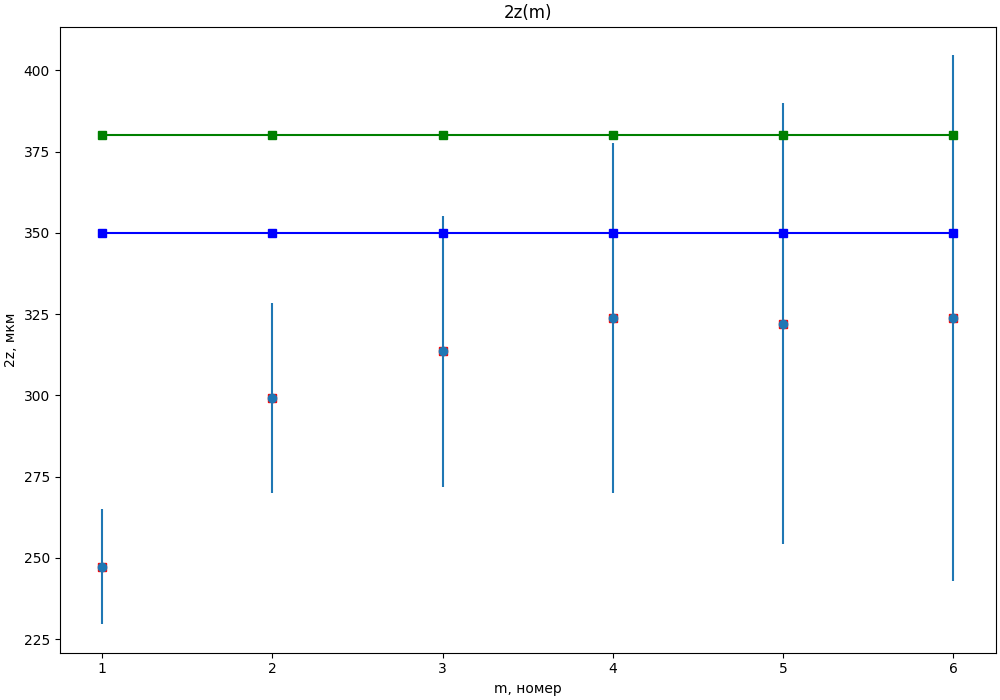
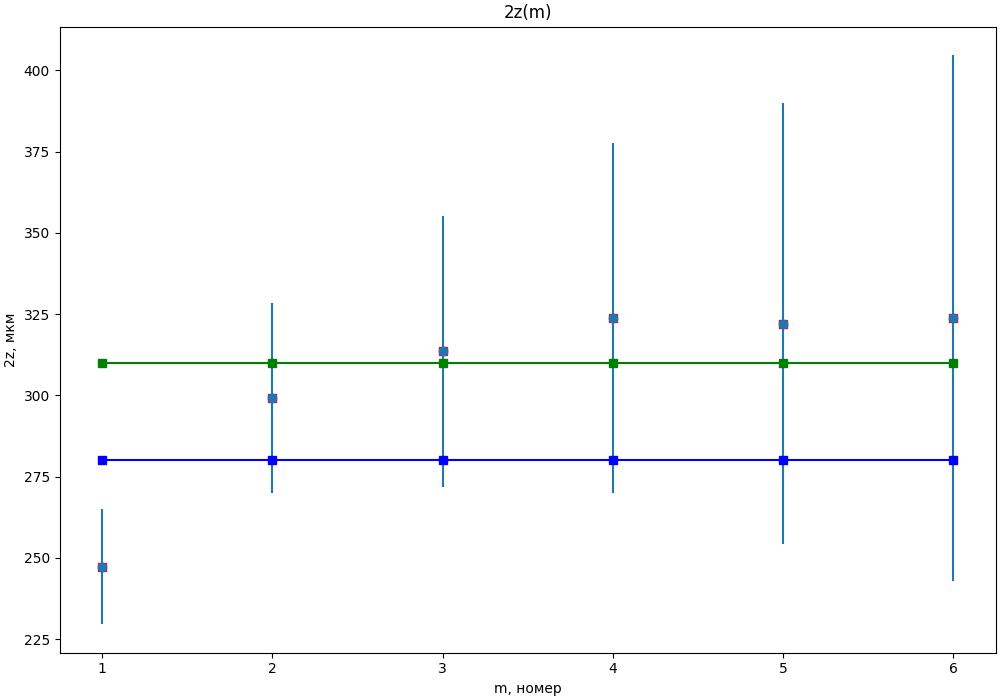
№

diff --git a/4.3.1/2.py b/4.3.1/2.py
@@ -1,0 +1,73 @@
+import matplotlib.pyplot as plt
+import numpy as np
+from scipy.optimize import curve_fit 
+import math
+
+
+def mapping(x, a, b): 
+    return a * x+ b
+
+m = list()
+Xm = list()
+with  open('data1', 'r')  as  data:
+    for line in data:
+        list_line = list((map(float, line.split())))
+        m.append(list_line[0])
+        Xm.append(list_line[1])
+
+m1 = np.array(m)
+
+y = np.array(Xm)
+x = np.array(m)
+
+x_aproc = x
+y_aproc = y
+
+args, covarian = curve_fit(mapping, m, Xm)
+a, b = args[0], args[1]
+y_fit = a * m1 + b
+
+print("a " + str(args[0]))
+
+
+sum = 0
+length = len(x_aproc)
+for i in range(len(x_aproc)):
+    sum += (y_fit[i] - y_aproc[i]) ** 2
+error_rate = math.sqrt(sum / (length + 1))
+#print(error_rate)
+
+x_sr = 0
+y_sr = 0
+
+x_dr = 0
+y_dr = 0
+
+for i in range(length):
+    x_sr += x_aproc[i]
+x_sr /= length
+
+for i in range(length):
+    x_dr += (x_aproc[i] - x_sr) ** 2
+x_dr /= length
+
+for i in range(length):
+    y_sr += y_aproc[i]
+y_sr /= length
+
+for i in range(length):
+    y_dr += (y_aproc[i] - y_sr) ** 2
+y_dr /= length
+
+error_rate_a = math.sqrt(((y_dr / x_dr) - a ** 2) / (length - 2))
+print("error_rate_a" + " " + str(error_rate_a))
+
+fig, ax = plt.subplots(figsize=(10,7), constrained_layout=True)
+
+plt.plot(m, Xm, 'bs')
+plt.plot(m1, y_fit, 'g-')
+
+plt.errorbar(m, Xm, yerr = 0.05, fmt = 'o', ls='none')
+
+plt.savefig("2.png")
+plt.show()

diff --git a/4.3.1/1.py b/4.3.1/1.py
@@ -26,8 +26,8 @@ for i in range(len(z)):
     dzm_2 = (0.2 / z[i]) / 2 * zm_2 * 2
     dzm_2_list.append(dzm_2)
     print(str(int(num[i])) + " " + str(zm_2) + " " + str(dzm_2))
-    d1_list.append(d1)
-    d2_list.append(d2)
+    d1_list.append(d1 - 70)
+    d2_list.append(d2 - 70)
 
 
 fig, ax = plt.subplots(figsize=(10,7), constrained_layout=True)
